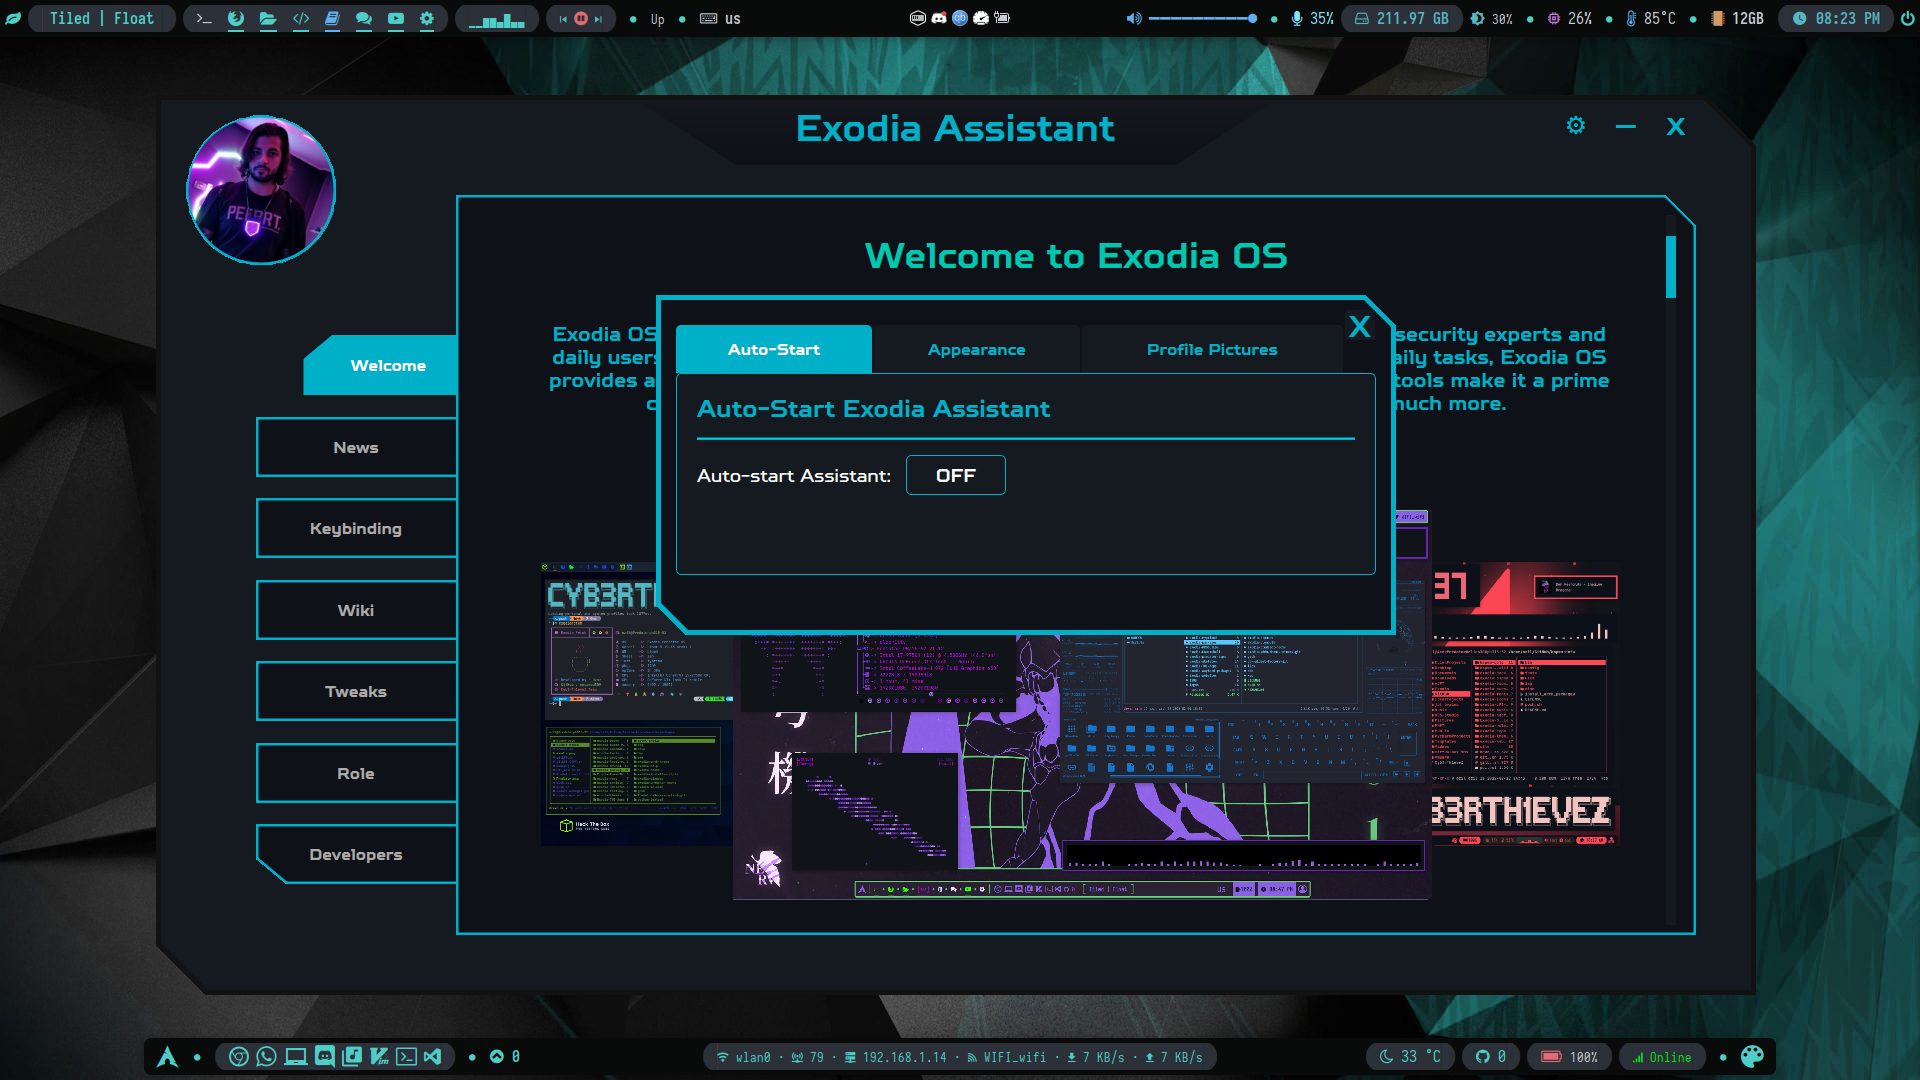
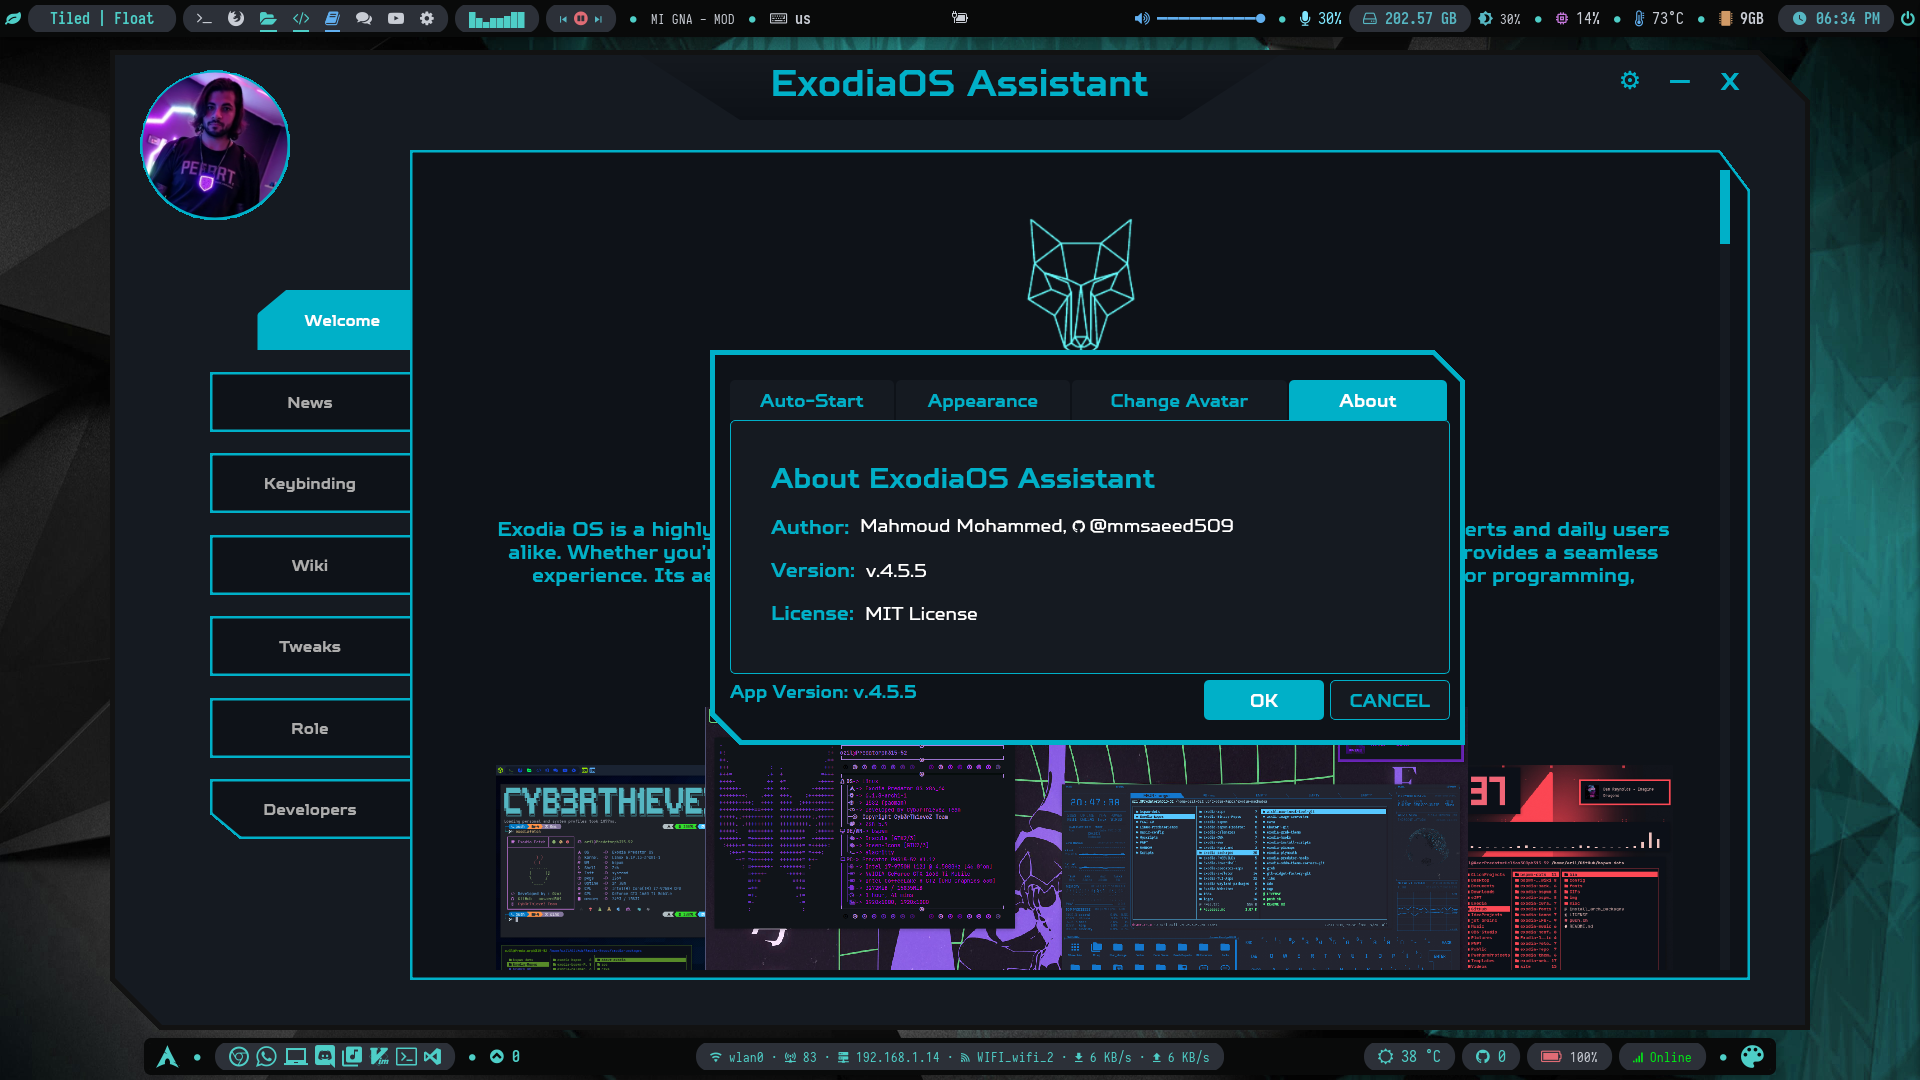
[1;36m==> modified : preview.png [0m     [1;36m==> modified : src/files/exodia-assistant/__pycache__/config.cpython-313.pyc [0m     [1;36m==> modified : src/files/exodia-assistant/app/core/__pycache__/role_env_setup.cpython-313.pyc [0m     [1;36m==> modified : src/files/exodia-assistant/app/core/__p

diff --git a/src/files/exodia-assistant/config.py b/src/files/exodia-assistant/config.py
@@ -19,7 +19,7 @@ from typing import Final
 APP_NAME: Final[str]    = "ExodiaOS Assistant"
 APP_VERSION: Final[str] = "4.5"
 APP_RELEASE: Final[str] = "5"
-APP_AUTHOR: Final[str]  = "Mahmoud Mohammed,  @mmsaeed509 - 00xWolf"
+APP_AUTHOR: Final[str]  = "Mahmoud Mohammed,  @mmsaeed509"
 APP_URL: Final[str]     = "https://github.com/Exodia-OS/exodia-assistant-app"
 APP_LICENSE: Final[str] = "MIT License"
 

diff --git a/src/files/exodia-assistant/app/core/role_env_setup.py b/src/files/exodia-assistant/app/core/role_env_setup.py
@@ -151,7 +151,7 @@ def create_setup_environment_tab(self, tab_widget):
     toolbar_layout.setSpacing(15)
 
     # Select All Checkbox
-    select_all_checkbox = QCheckBox("Select All Tools")
+    select_all_checkbox = QCheckBox("Select All Tools ")
     select_all_checkbox.setFont(self.predator_font)
     select_all_checkbox.setStyleSheet(f"""
         QCheckBox {{
